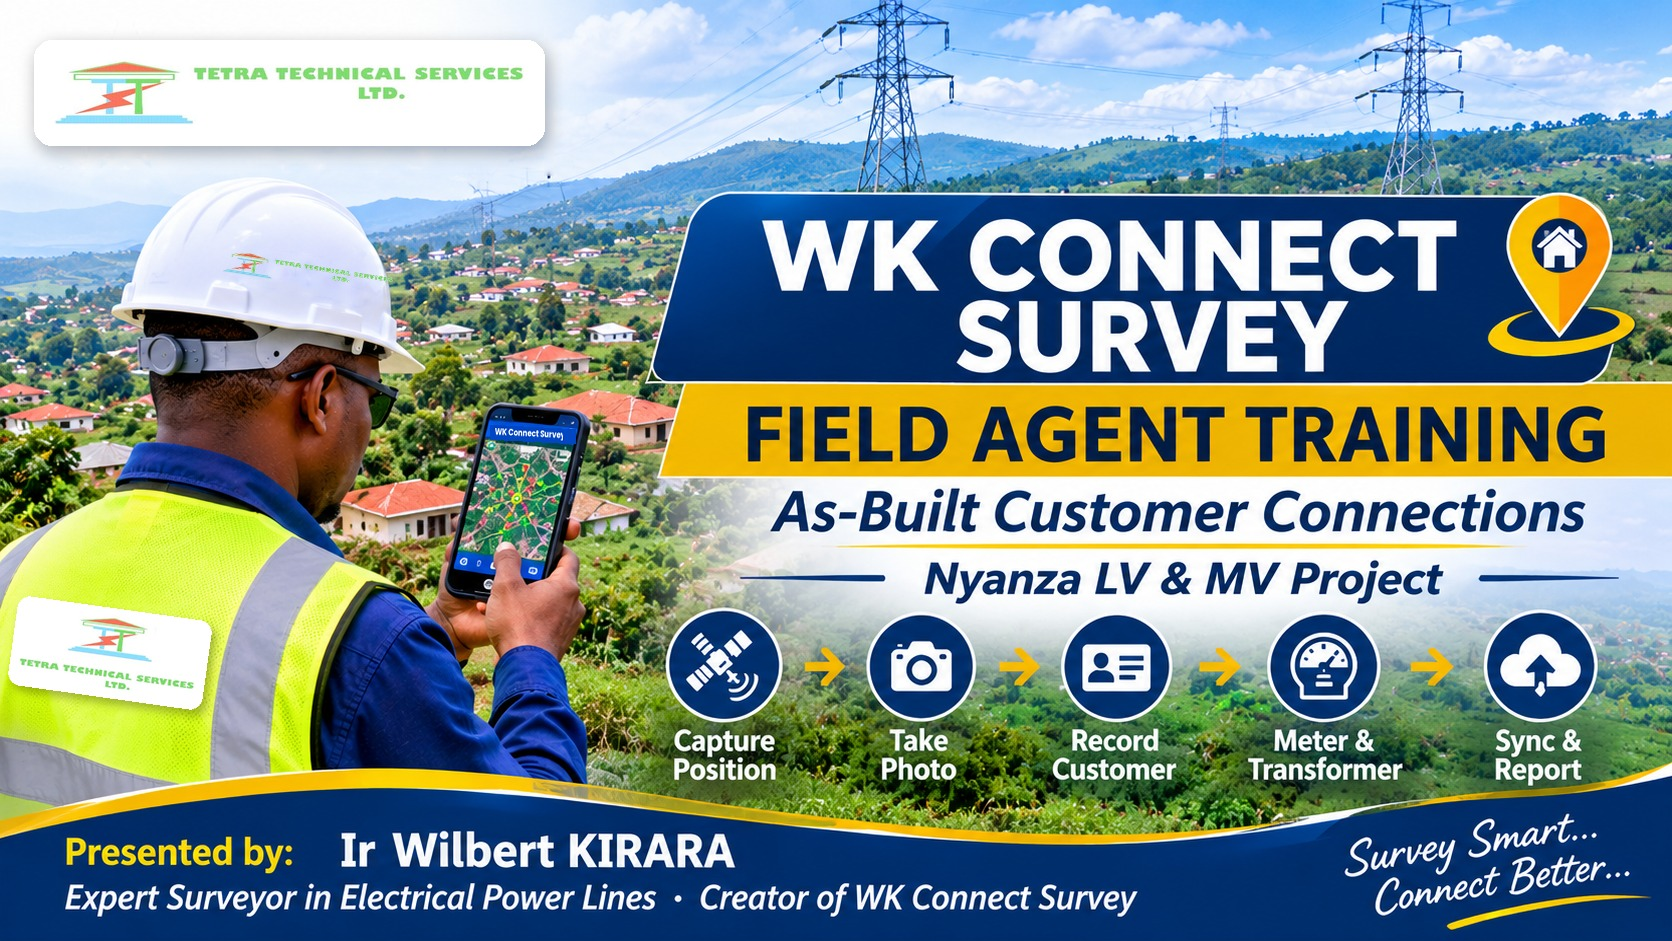
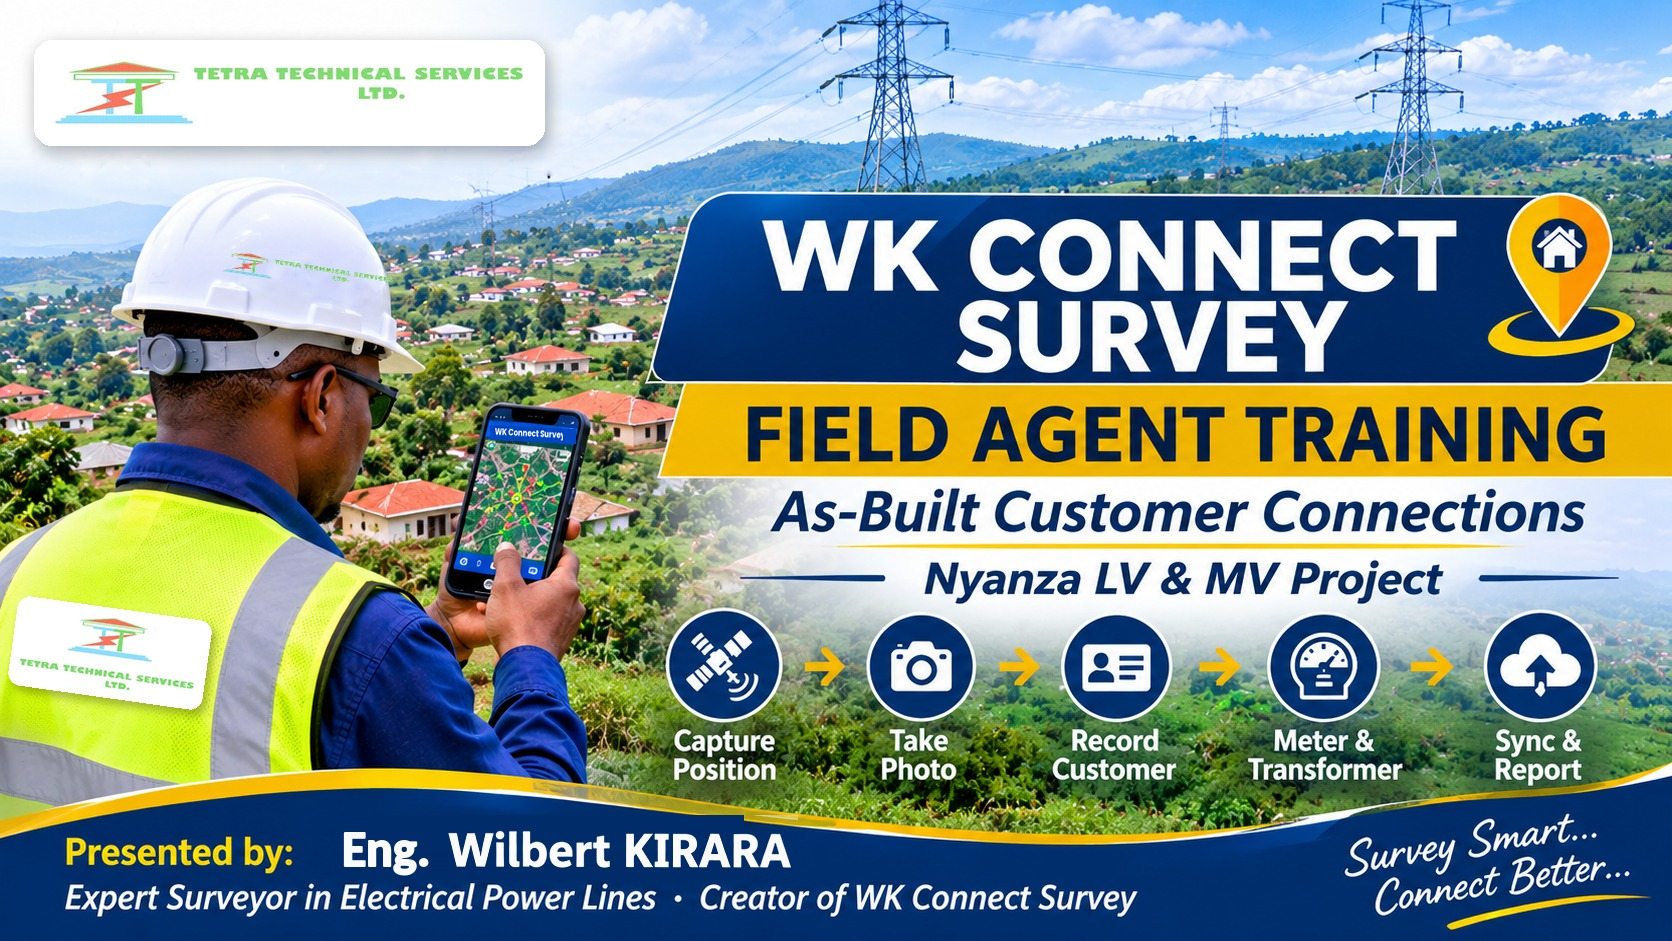
Credits: Eng. Wilbert KIRARA; training cover updated
Claude-Session: https://claude.ai/code/session_01T4mbuam4rA3jpVLLo3d85S

Changed region(s): [[0.1866, 0.8629, 0.4976, 0.9245]]

diff --git a/index.html b/index.html
@@ -1,5 +1,5 @@
 <!DOCTYPE html>
-<!-- WK Connect Survey — Copyright (c) 2026 Ir Wilbert KIRARA, Expert Surveyor in Electrical Power Lines. All rights reserved. Unauthorised copying or use is prohibited. -->
+<!-- WK Connect Survey — Copyright (c) 2026 Eng. Wilbert KIRARA, Expert Surveyor in Electrical Power Lines. All rights reserved. Unauthorised copying or use is prohibited. -->
 <html lang="en">
 <head>
 <meta charset="UTF-8" />
@@ -12,7 +12,7 @@
 <meta name="mobile-web-app-capable" content="yes" />
 <meta name="apple-mobile-web-app-status-bar-style" content="black-translucent" />
 <meta name="apple-mobile-web-app-title" content="WK Connect" />
-<meta name="author" content="Ir Wilbert KIRARA — Expert Surveyor in Electrical Power Lines" />
+<meta name="author" content="Eng. Wilbert KIRARA — Expert Surveyor in Electrical Power Lines" />
 <link rel="stylesheet" href="leaflet/leaflet.css" />
 <title>WK Connect Survey</title>
 <style>
@@ -182,7 +182,7 @@
 
 <header>
   <div class="hrow">
-    <div class="brand">WK Connect Survey<small>NYANZA · AS-BUILT CUSTOMER CONNECTIONS</small><small style="color:#7dd3fc;letter-spacing:0">by Ir Wilbert KIRARA</small></div>
+    <div class="brand">WK Connect Survey<small>NYANZA · AS-BUILT CUSTOMER CONNECTIONS</small><small style="color:#7dd3fc;letter-spacing:0">by Eng. Wilbert KIRARA</small></div>
     <span style="margin-left:auto"></span>
     <button class="sync off" id="syncChip" onclick="syncNow(true)">☁ off</button>
     <button class="agent" id="agentChip" onclick="askAgent(true)">👤 —</button>
@@ -405,13 +405,13 @@
       <div class="pad exp">
         <button class="btn ghost hidden" id="installBtn" onclick="doInstall()">⤓ Install on this phone</button>
         <button class="btn ghost" onclick="prepareOCR(true)">🪪 Prepare ID-card reader for offline use</button>
-        <div class="about"><div class="mono">WK</div><div><b>Ir Wilbert KIRARA</b><span>Expert Surveyor in Electrical Power Lines<br>Creator of WK Connect Survey</span></div></div>
-        <div style="font-size:12px;color:var(--muted)">WK Connect Survey · v3.2 · project: Nyanza · © 2026 Ir Wilbert KIRARA</div>
+        <div class="about"><div class="mono">WK</div><div><b>Eng. Wilbert KIRARA</b><span>Expert Surveyor in Electrical Power Lines<br>Creator of WK Connect Survey</span></div></div>
+        <div style="font-size:12px;color:var(--muted)">WK Connect Survey · v3.2 · project: Nyanza · © 2026 Eng. Wilbert KIRARA</div>
       </div>
     </div>
   </section>
 </main>
-<div class="credit">WK Connect Survey · created by <b>Ir Wilbert KIRARA</b> · Expert Surveyor in Electrical Power Lines</div>
+<div class="credit">WK Connect Survey · created by <b>Eng. Wilbert KIRARA</b> · Expert Surveyor in Electrical Power Lines</div>
 
 <div class="savebar" id="savebar">
   <div class="in">
@@ -426,7 +426,7 @@
     <p>Enter your full name. It is recorded on every entry and in the report.</p>
     <input id="agentIn" placeholder="e.g. Jean Uwimana" autocapitalize="words" style="margin-bottom:14px">
     <button class="btn pri w100" onclick="saveAgent()">Continue</button>
-    <div style="text-align:center;font-size:11.5px;color:var(--muted);margin-top:12px">WK Connect Survey — created by <b>Ir Wilbert KIRARA</b>,<br>Expert Surveyor in Electrical Power Lines</div>
+    <div style="text-align:center;font-size:11.5px;color:var(--muted);margin-top:12px">WK Connect Survey — created by <b>Eng. Wilbert KIRARA</b>,<br>Expert Surveyor in Electrical Power Lines</div>
   </div>
 </div>
 
@@ -470,7 +470,7 @@
 <script src="jszip.min.js"></script>
 <script>
 "use strict";
-/* WK Connect Survey — (c) 2026 Ir Wilbert KIRARA. All rights reserved. */
+/* WK Connect Survey — (c) 2026 Eng. Wilbert KIRARA. All rights reserved. */
 /* =====================================================================
    WK Connect Survey v2 — Nyanza
    ===================================================================== */

diff --git a/sw.js b/sw.js
@@ -1,5 +1,5 @@
 // As-Built Collection service worker — offline app shell.
-const CACHE = "asbuilt-v21";
+const CACHE = "asbuilt-v22";
 const ASSETS = [
   "./",
   "./index.html",
